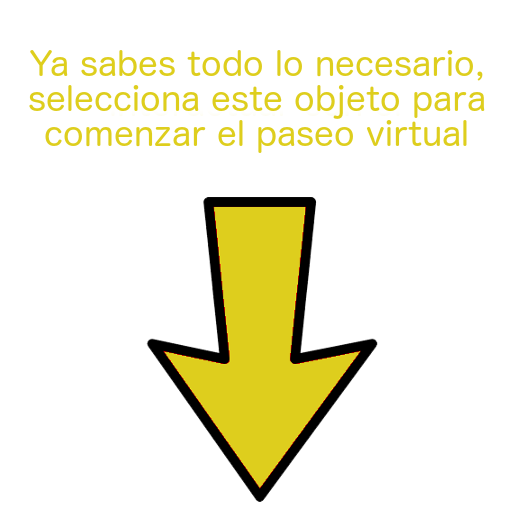
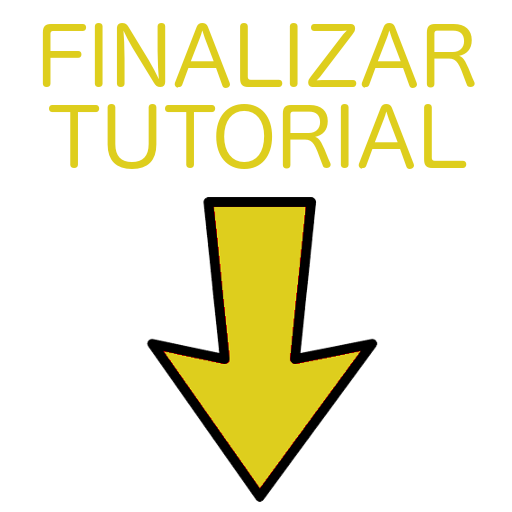
UPDATE assets; ADD conditions to tutorial

Changed region(s): [[0.0625, 0.0312, 0.9688, 0.3438]]

diff --git a/index.html b/index.html
@@ -303,9 +303,10 @@
     for (var i = 0; i < parentTutorial.children.length; i++) {
       if (distancesFromReticleToObject[i] < MAX_DISTANCE) {
         changeColor(parentTutorial.children[i], utils.objectColors.initial);
-        if (!added && distancesFromReticleToObject[i] > 2) {
+        // if (i % 2 == 0 && !added && distancesFromReticleToObject[i] > 2) {
+        if (distancesFromReticleToObject[i] > 2) {
           addProximityLabelToChild(parentTutorial.children[i].position);
-          added = true;
+          // if (!tutorialFinished) added = true;
         }
       } else {
         changeColor(parentTutorial.children[i], utils.objectColors.closest);
@@ -324,6 +325,7 @@
   var closeLabel;
   function addProximityLabelToChild(childObjectPosition) {
     var fileName = tutorialFinished ? "tutorialFinished" : "isClose";
+    if (movements == 1) fileName = "isClose_2";
     var img = new THREE.MeshBasicMaterial({
       map: textureLoader.load(utils.rootDirectory + fileName + utils.extension),
       transparent: true,
@@ -331,9 +333,9 @@
       color: 0xffffff
     });
     img.map.needsUpdate = false;
-    var scale = 2;
+    var scale = tutorialFinished || (movements == 1) ? 0.5 : 2;
     closeLabel = new THREE.Mesh(new THREE.PlaneGeometry(scale, scale), img);
-    closeLabel.position.set(utils.initialPositionTutorial.x + childObjectPosition.x, 2, utils.initialPositionTutorial.z + childObjectPosition.z);
+    closeLabel.position.set(utils.initialPositionTutorial.x + childObjectPosition.x, tutorialFinished || (movements == 1) ? 1 : 2, utils.initialPositionTutorial.z + childObjectPosition.z);
     
     closeObjectLabels.push(closeLabel);
     scene.add(closeLabel);
